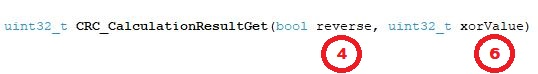
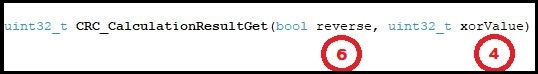
Fixed image issues

Changed region(s): [[0.0, 0.0, 1.0, 1.0], [0.8922, 0.4595, 0.9517, 0.6216], [0.8625, 0.8378, 0.8922, 0.8649]]

diff --git a/README.md b/README.md
@@ -77,22 +77,25 @@ The code example uses MPLAB® Code Configurator Melody CRC Driver to configure C
 
 The following settings are used in the calculation of CRC values:
 
-- CRC Order: Length (in bits) of the polynomial
-- Polynomial: Generator polynomial used in the calculation of the CRC value. Many effective polynomials exist, but some of the most common are CRC-16-CCITT (0x1021) and CRC-32 (0x04C11DB7).
-- Initial Value: The initial value of the CRC result. Can theoretically be anything, but traditionally is either zero (0x0000 for 16-bit or 0x00000000 for 32-bit) or -1 (0xFFFF for 16-bit or 0xFFFFFFFF for 32-bit).
-- Final XOR Value: The value XOR'd with the CRC result after the calculation and any reverses. Can theoretically be anything, but traditionally is either zero (0x0000 for 16-bit or 0x00000000 for 32-bit) or -1 (0xFFFF for 16-bit or 0xFFFFFFFF for 32-bit).
-- Shift Direction: The direction the data is shifted through the registers. Can start with the most significant bit (MSB) or the least significant bit (LSB)
-- Reverse: The result of the CRC calculation can be reversed immediately after calculation. The value is true (perform reverse) or false (no reverse).
-
+1. CRC Order: Length (in bits) of the polynomial
+2. Polynomial: Generator polynomial used in the calculation of the CRC value. Many effective polynomials exist, but some of the most common are CRC-16-CCITT (0x1021) and CRC-32 (0x04C11DB7).
+3. Initial Value: The initial value of the CRC result. Can theoretically be anything, but traditionally is either zero (0x0000 for 16-bit or 0x00000000 for 32-bit) or -1 (0xFFFF for 16-bit or 0xFFFFFFFF for 32-bit).
+4. Final XOR Value: The value XOR'd with the CRC result after the calculation and any reverses. Can theoretically be anything, but traditionally is either zero (0x0000 for 16-bit or 0x00000000 for 32-bit) or -1 (0xFFFF for 16-bit or 0xFFFFFFFF for 32-bit).
+5. Shift Direction: The direction the data is shifted through the registers. Can start with the most significant bit (MSB) or the least significant bit (LSB)
+6. Reverse: The result of the CRC calculation can be reversed immediately after calculation. The value is true (perform reverse) or false (no reverse).
+7. Seed Input Method: Can be direct (which is just the initial value) or nondirect (the result of a CRC calculation where the initial value is the input). 
+8. Seed Shift Direction: The direction the seed is shifted through the registers. Can start with the most significant bit (MSB) or the least significant bit (LSB).
 
 For CRC-16-CCITT, the settings are as follows:
 
-- CRC Order: 16
-- Polynomial: 0x1021
-- Initial Value: -1 (0xFFFF)
-- Final XOR Value: 0 (0x0000)
-- Shift Direction: MSB
-- Reverse: No Reverse
+1. CRC Order: 16
+2. Polynomial: 0x1021
+3. Initial Value: -1 (0xFFFF)
+4. Final XOR Value: 0 (0x0000)
+5. Shift Direction: MSB
+6. Reverse: No Reverse
+7. Seed Input Method: Direct
+8. Seed Shift Direction: MSB
 
 ### Online Calculator
 
@@ -102,12 +105,17 @@ Online Calculator:
 
 ![Labeled Online Calculator](images/online_calculator_UI.JPG)
 
+**Note**: Number 8, Seed Shift Direction, is assumed to be MSB in this online calculator.
+
 MCC Melody: 
 
 ![Labeled MCC Melody UI](images/demo_CRC_settings.JPG)
+
+**Note**: The "Reverse CRC value" and "Final XOR Value" only work for the simulator, they will not be used in the firmware calculations.
+
 ![Labeled CRC_CalculationResultGet()](images/CRC_CalculationResultGet.JPG)
 
-***Note**: The "Reverse CRC value" and "Final XOR Value" only work for the simulator, they will not be used in the firmware calculations.
+The firmware function CRC_CalculationGet() is where the Reverse and Final XOR Value settings are implemented.
 
 For this code example, the calculation performed by the MCC Melody CRC Driver can be replicated with the online calculator by the following steps:
 - Select "CRC-CCITT" button.
